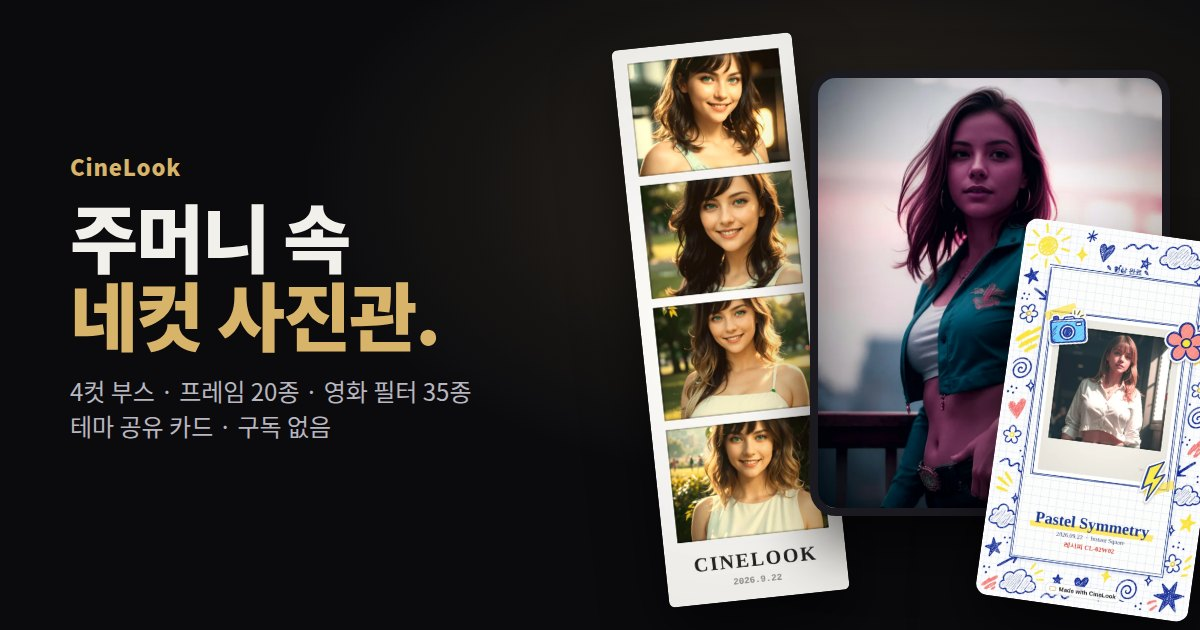
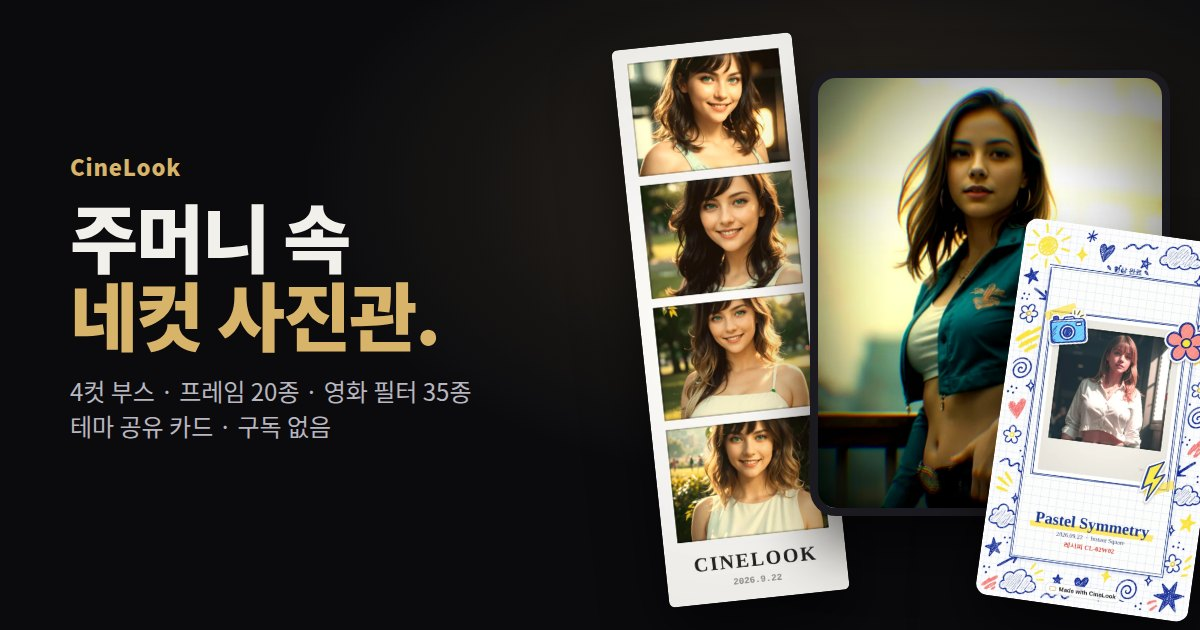
cinelook: 랜딩 Neon Rain 룩을 Toy Lens(필름카메라)로 교체
- 히어로 폰 룩 순환 · 필터 비교 슬라이더 첫 이미지를 look-toylens 로
- 칩 표시 「Toy Lens · 필름카메라」
- og.jpg 새 이미지로 교체, 쓰지 않는 look-neonrain.webp 제거

Claude-Session: https://claude.ai/code/session_01GcxDg8HwpmhQNjcecpaQPK

Changed region(s): [[0.6783, 0.1206, 0.9867, 0.7841], [0.6783, 0.7238, 0.7092, 0.754]]

diff --git a/app/(cinelook)/cinelook/HomeContent.tsx b/app/(cinelook)/cinelook/HomeContent.tsx
@@ -29,7 +29,7 @@ const css = (o: Record<string, string | number>) => o as CSSProperties;
 
 const LOOKS = [
   { id: 'warmgold', name: 'Warm Gold', mood: ['필름', 'Film'] },
-  { id: 'neonrain', name: 'Neon Rain', mood: ['네온 밤', 'Neon Night'] },
+  { id: 'toylens', name: 'Toy Lens', mood: ['필름카메라', 'Film camera'] },
   { id: 'tealorange', name: 'Teal & Orange', mood: ['시네마', 'Cinema'] },
   { id: 'pastelsym', name: 'Pastel Symmetry', mood: ['파스텔', 'Pastel'] },
   { id: 'goldenhour', name: 'Golden Hour', mood: ['무드', 'Mood'] },
